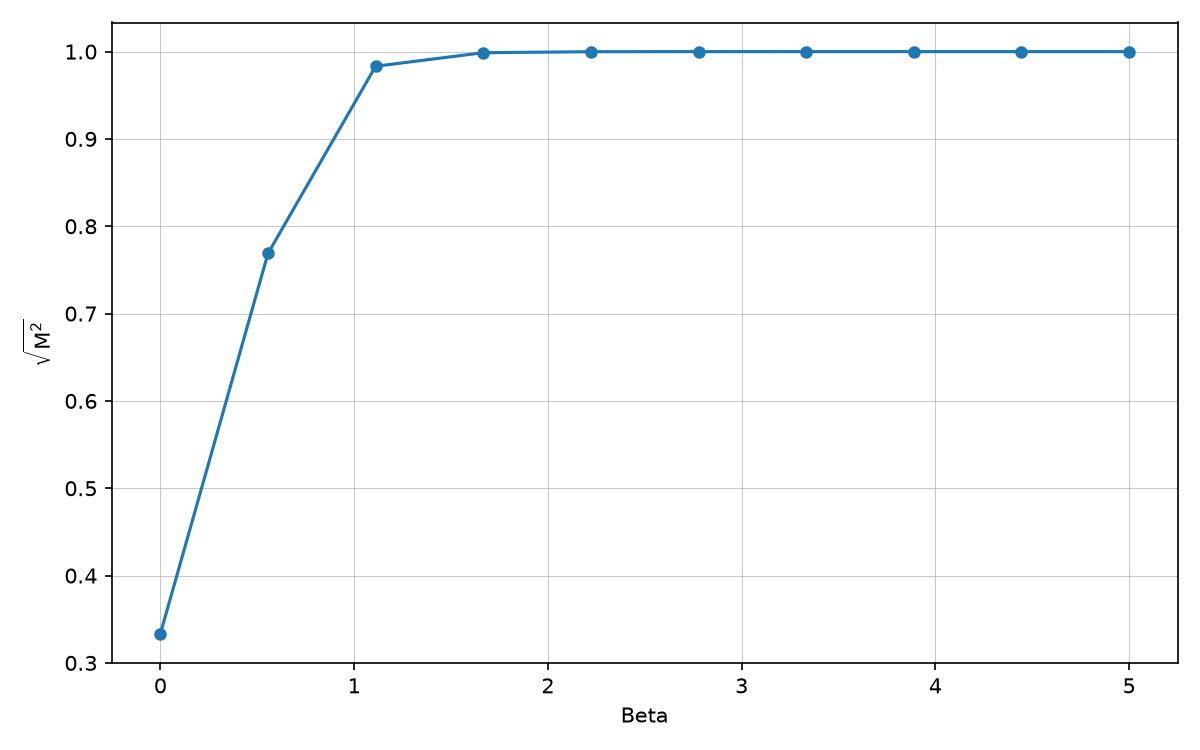
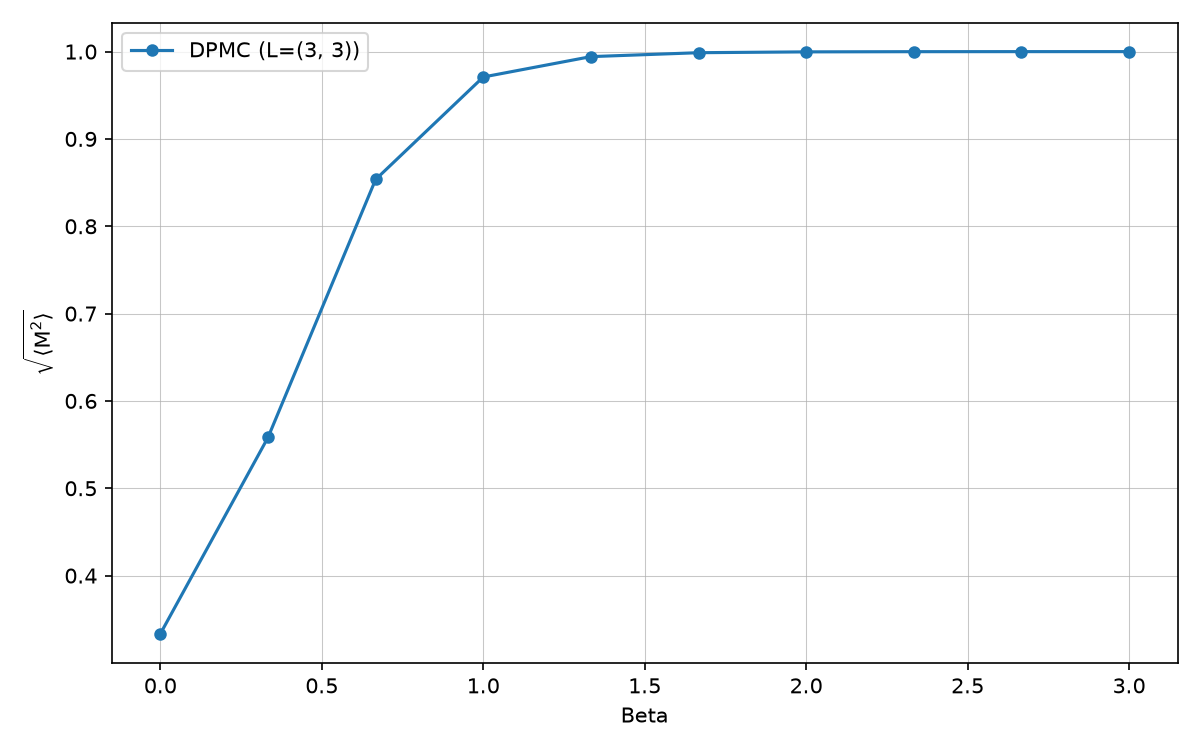
Added minor optimizations to M computation

diff --git a/RBIM_WMC/BenchMark.py b/RBIM_WMC/BenchMark.py
@@ -90,18 +90,20 @@ class BenchMark:
         #fig.savefig(f"RBMI_WMC/Plots/Runtime_vs_Lattice_B_{beta}.png", dpi=150)
         plt.show()
 
-    def magnetization_vs_beta_benchMark(self, shape: list, p_ferro: float = 1.0):
+    def magnetization_vs_beta_benchMark(self, shape: list, betas: list, p_ferro: float = 1.0):
         print("=== Calculating Magnetization ===")
 
         model = self._Model.generate_lattice((shape[0], shape[1]), p_ferro=p_ferro)
     
         magnetization = []
     
-        for beta in np.linspace(0.0, 5.0, 10):
+        for beta in betas:
     
             print("Computing M for beta = ", beta)
+
+            index, regs, interactions_base = model.get_base_interaction(beta) # Only compute interaction once per beta value
     
-            problem_Z = model.get_wcnf(beta)
+            problem_Z = interactions_base.mat.trace_formula()
             result_Z = self._model_counter.model_count(*problem_Z)
             value_Z = result_Z.model_count
     
@@ -109,7 +111,7 @@ class BenchMark:
             n_spins = len(model)
     
             for i in range(n_spins):
-                problem_op = model.get_wcnf_single_spin(target_spin = i, beta=beta)
+                problem_op = model.apply_Z_to_base(target_spin = i, index=index, regs=regs, interactions=interactions_base)
                 result_op = self._model_counter.model_count(*problem_op)
                 value_Z_op = result_op.model_count
     
@@ -117,19 +119,21 @@ class BenchMark:
     
             magnetization.append(magnetization_sum / n_spins)
 
-        betas = np.linspace(0.0, 5.0, 10)
-
         # --- Plot ---
+        solver_name = self._model_counter.__class__.__name__
+        label_text = f"{solver_name} (L={shape})"
+        
         fig, ax = plt.subplots(figsize=(8, 5))
     
-        ax.plot(betas, magnetization, marker="o", linewidth=1.5, markersize=5)
+        ax.plot(betas, magnetization, marker="o", linewidth=1.5, markersize=5, label=label_text)
     
         ax.set_xlabel("Beta")
-        ax.set_ylabel("Magnetization")
+        ax.set_ylabel(r"$\langle \text{M} \rangle$")
     
         ax.grid(True, which="major", linestyle="-", linewidth=0.5, alpha=0.7)
         ax.grid(True, which="minor", linestyle=":", linewidth=0.4, alpha=0.4)
-    
+
+        ax.legend(loc="best")
         fig.tight_layout()
 
         output_dir = "Plots/Magnetization_vs_Beta"
@@ -138,50 +142,56 @@ class BenchMark:
     
         return magnetization
 
-    def magnetization_squared_vs_beta_benchMark(self, shape: list, p_ferro: float):
+    def magnetization_squared_vs_beta_benchMark(self, shape: list, betas: list, p_ferro: float = 1.0):
         print("=== Calculating Magnetization Squared ===")
 
         model = self._Model.generate_lattice((shape[0], shape[1]), p_ferro=p_ferro)
     
         magnetization_squared = []
     
-        for beta in np.linspace(0.0, 5.0, 10):
+        for beta in betas:
     
             print("Computing M^2 for beta = ", beta)
     
-            problem_Z = model.get_wcnf(beta)
+            index, regs, interactions_base = model.get_base_interaction(beta) # Only compute interaction once per beta value
+                
+            problem_Z = interactions_base.mat.trace_formula()
             result_Z = self._model_counter.model_count(*problem_Z)
             value_Z = result_Z.model_count
     
             magnetization_sum = 0.0
             n_spins = len(model)
+
+            magnetization_sum += n_spins # Add up the diagonal where <s_i s_i> = 1
     
             for i in range(n_spins):
-                for j in range(n_spins):
-                    if i == j: magnetization_sum += 1.0; continue # For <s_i s_i> = 1, no calculation needed
-                    problem_op = model.get_wcnf_double_spin(target_spins = (i,j), beta=beta)
+                for j in range(i + 1, n_spins):
+                    problem_op = model.apply_ZZ_to_base(target_spins = (i,j), index=index, regs=regs, interactions=interactions_base)
                     result_op = self._model_counter.model_count(*problem_op)
                     value_Z_op = result_op.model_count
-    
-                    magnetization_sum += (value_Z_op/value_Z)
+
+                    # Double the result as pairs (i,j) and (j,i) are equivalent
+                    magnetization_sum += 2 * (value_Z_op/value_Z)
     
             magnetization_squared.append(magnetization_sum / (n_spins**2))
 
         magnetization = np.sqrt(magnetization_squared)
-
-        betas = np.linspace(0.0, 5.0, 10)
         
         # --- Plot ---
+        solver_name = self._model_counter.__class__.__name__
+        label_text = f"{solver_name} (L={shape})"
+
         fig, ax = plt.subplots(figsize=(8, 5))
     
-        ax.plot(betas, magnetization, marker="o", linewidth=1.5, markersize=5)
+        ax.plot(betas, magnetization, marker="o", linewidth=1.5, markersize=5, label=label_text)
     
         ax.set_xlabel("Beta")
-        ax.set_ylabel(r"$\sqrt{\text{M}^2}$")
+        ax.set_ylabel(r"$\sqrt{\langle \text{M}^2 \rangle}$")
     
         ax.grid(True, which="major", linestyle="-", linewidth=0.5, alpha=0.7)
         ax.grid(True, which="minor", linestyle=":", linewidth=0.4, alpha=0.4)
-    
+
+        ax.legend(loc="best")
         fig.tight_layout()
 
         output_dir = "Plots/Magnetization_squared_vs_Beta"

diff --git a/RBIM_WMC/RBIM_model.py b/RBIM_WMC/RBIM_model.py
@@ -170,21 +170,21 @@ class RandomBondIsingModel(BaseModel):
     def get_wcnf_single_spin(self, target_spin: int, beta: float = 1.0) -> tuple[CNF, WeightFunction]:
         """ Convert the given Ising model to a WCNFMatrix, the trace of which is
             equal to the partition function times the operator Z of the Ising model at inverse
-            temperature beta for one certain spin. """
+            temperature beta for one certain spin """
         index = Index()
         n = len(self)
         regs = [Reg(index) for _ in range(n)]
 
-        operator = self.Z_Operator(index) | regs[target_spin]    
+        operator = self.Z_Operator(index) | regs[target_spin]
 
         interactions = reduce(lambda x, y: x * y, (self.exp_zz_rotation(beta * strength, index) | (regs[i], regs[j]) for i, j, strength in self.interactions()))
 
         return (operator * interactions).mat.trace_formula()
 
-    def get_wcnf_double_spin(self, target_spins: tuple[int, int], beta: float = 1.0) -> tuple[CNF, WeightFunction]:
+    def get_wcnf_double_spin(self, target_spins: tuple[int,int], beta: float = 1.0) -> tuple[CNF, WeightFunction]:
         """ Convert the given Ising model to a WCNFMatrix, the trace of which is
             equal to the partition function times the operator Z of the Ising model at inverse
-            temperature beta for two certain spins. """
+            temperature beta for two certain spins """
         index = Index()
         n = len(self)
         regs = [Reg(index) for _ in range(n)]
@@ -194,5 +194,28 @@ class RandomBondIsingModel(BaseModel):
         operator = operator_Z_i * operator_Z_j 
 
         interactions = reduce(lambda x, y: x * y, (self.exp_zz_rotation(beta * strength, index) | (regs[i], regs[j]) for i, j, strength in self.interactions()))
+
+        return (operator * interactions).mat.trace_formula()
+
+    def get_base_interaction(self, beta: float):
+        """Constructs the partition fucntion from the interaction hamiltonian"""
+        index = Index()
+        n = len(self)
+        regs = [Reg(index) for _ in range(n)]
+
+        interactions = reduce(lambda x, y: x * y, (self.exp_zz_rotation(beta * strength, index) | (regs[i], regs[j]) for i, j, strength in self.interactions()))
+
+        return index, regs, interactions
+
+    def apply_Z_to_base(self, target_spin: int, index: Index, regs: list, interactions):
+        """Applies the Z operator to the partiiton function for a target spin"""
+        operator = self.Z_Operator(index) | regs[target_spin]
+        return (operator * interactions).mat.trace_formula()
+
+    def apply_ZZ_to_base(self, target_spins: tuple[int,int], index: Index, regs: list, interactions):
+        """Applies the ZZ operator to the partiiton function for a couple of target spins"""
+        operator_Z_i = self.Z_Operator(index) | regs[target_spins[0]] 
+        operator_Z_j = self.Z_Operator(index) | regs[target_spins[1]] 
+        operator = operator_Z_i * operator_Z_j 
 
         return (operator * interactions).mat.trace_formula()

diff --git a/RBIM_WMC/__main__.py b/RBIM_WMC/__main__.py
@@ -67,7 +67,21 @@ if __name__ == "__main__":
     bm = BenchMark(RandomBondIsingModel, DPMC)
 
     L = 3
+    betas = np.linspace(0.0, 3.0, 10)
 
-    bm.magnetization_vs_beta_benchMark(shape = (L,L), p_ferro = 1.0)
-    bm.magnetization_squared_vs_beta_benchMark(shape = (L,L), p_ferro = 1.0)
+    start_1 = time.perf_counter()
+    bm.magnetization_vs_beta_benchMark(shape=(L, L), betas=betas, p_ferro=1.0)
+    end_1 = time.perf_counter()
+    time_mag = end_1 - start_1
+
+    start_2 = time.perf_counter()
+    bm.magnetization_squared_vs_beta_benchMark(shape=(L, L), betas=betas, p_ferro=1.0)
+    end_2 = time.perf_counter()
+    time_mag2 = end_2 - start_2
+
+    print("\n" + "="*40)
+    print("        Results        ")
+    print("="*40)
+    print(f"Time Magnetizaiton:   {time_mag:.4f} seconds")
+    print(f"Time Magnetization Squared:   {time_mag2:.4f} seconds")
 
